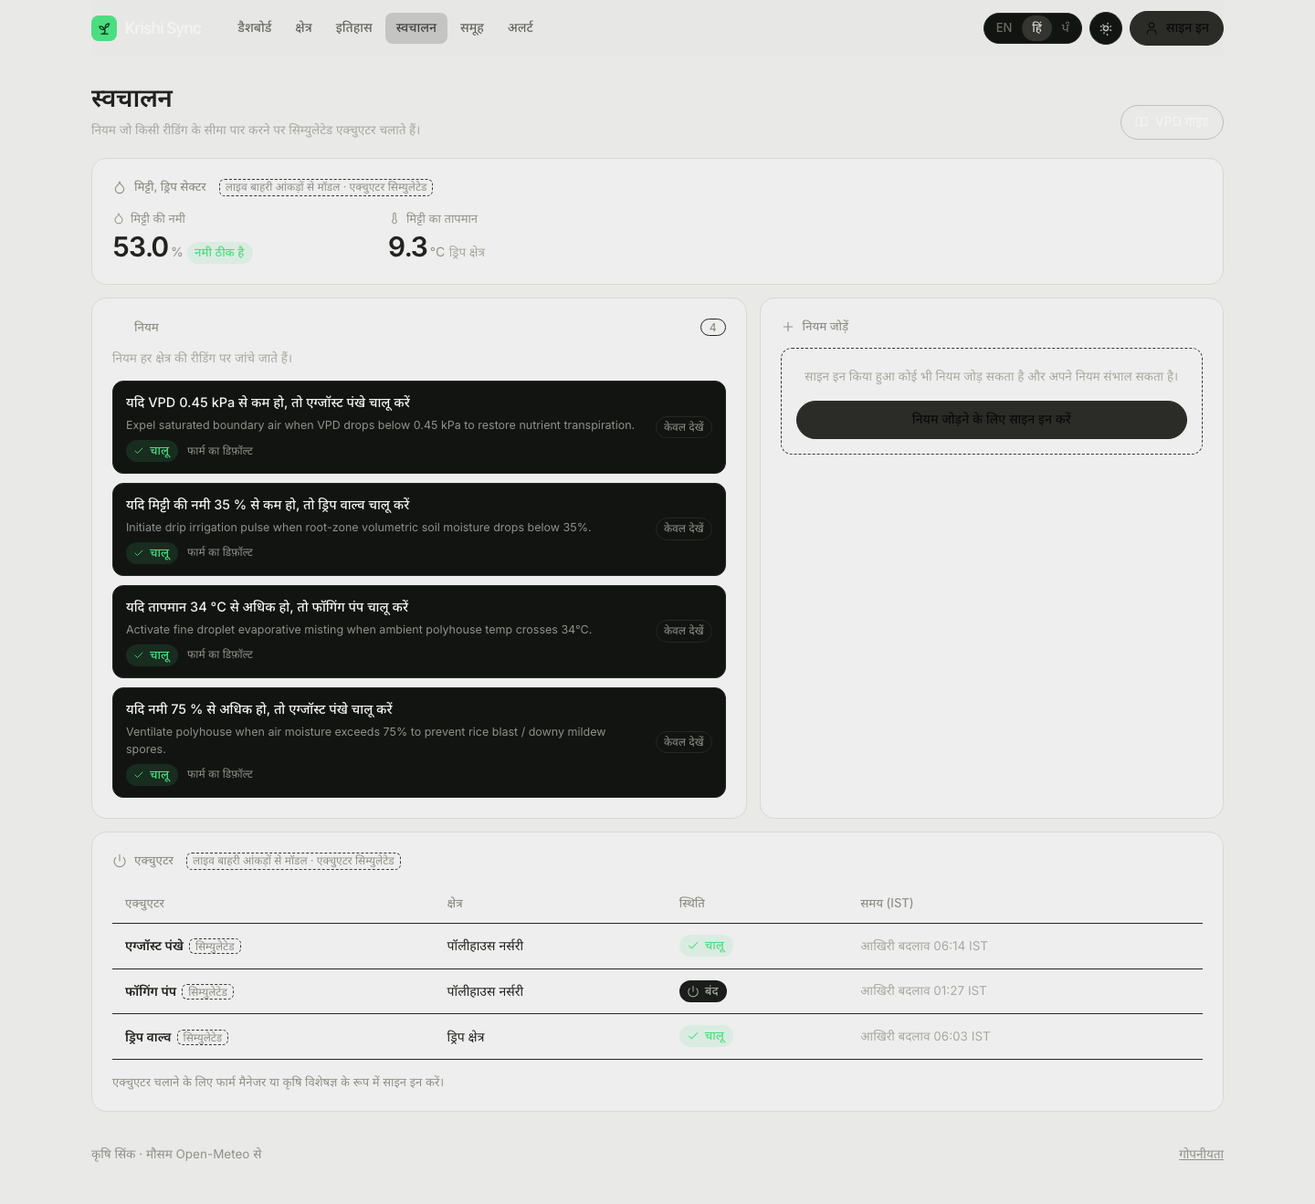
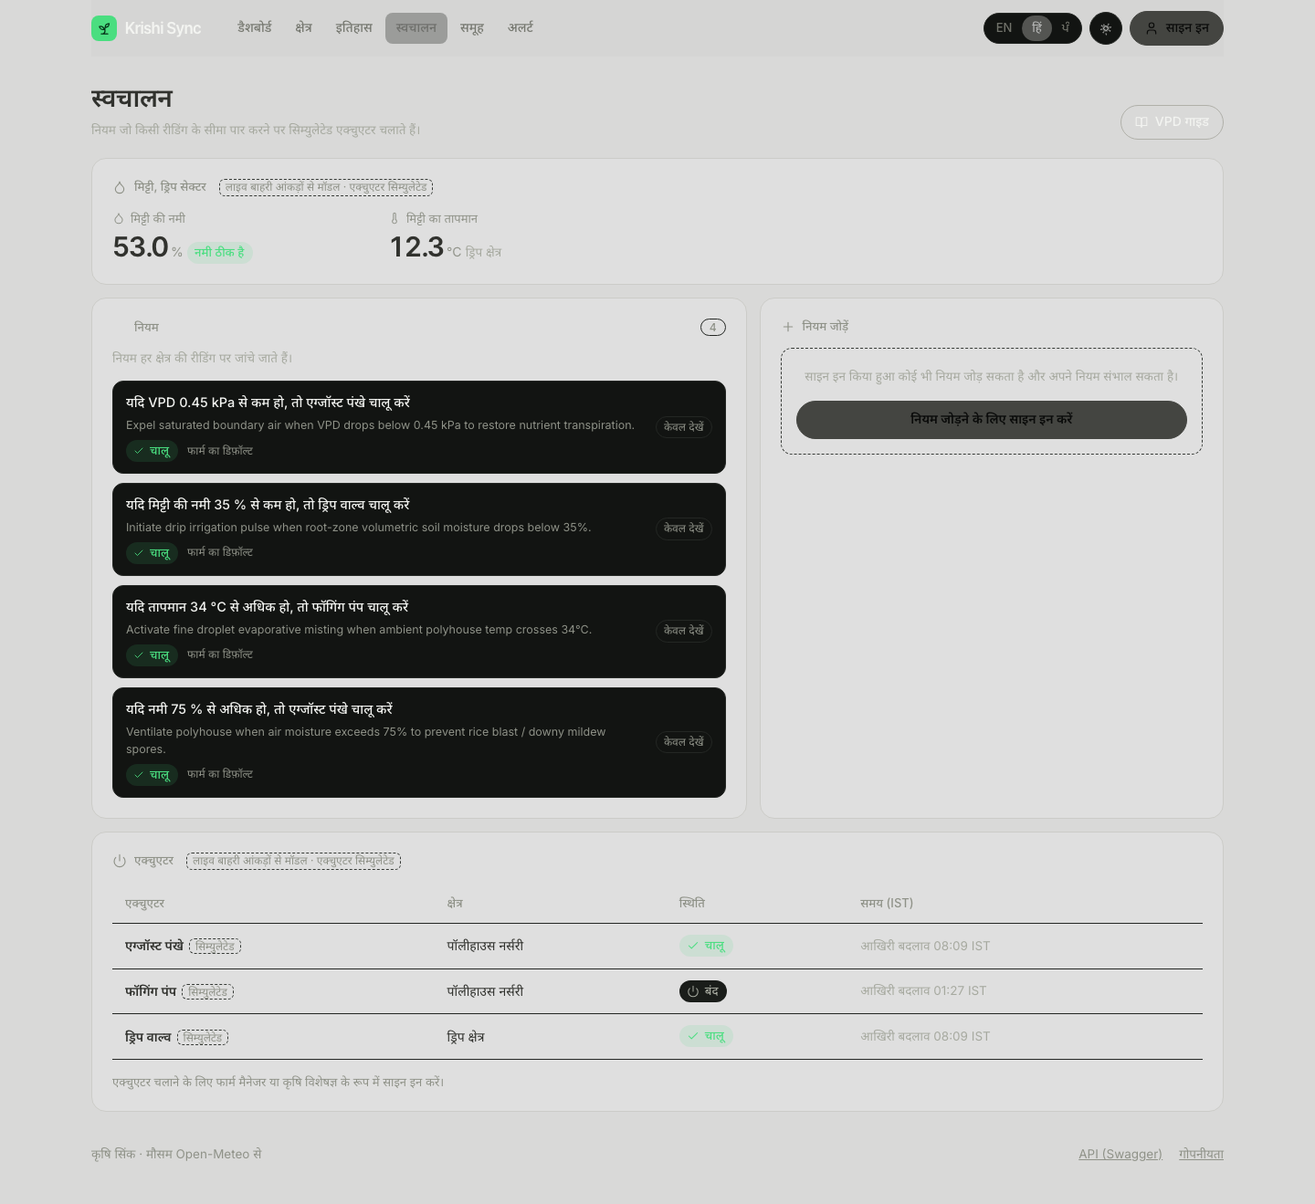
feat(auth,climate): add proper SignUp and enhanced SignIn pages, fix location switching with cookie persistence and coordinate-specific weather

diff --git a/wwwroot/css/pages.css b/wwwroot/css/pages.css
@@ -59,19 +59,30 @@ button.zn:focus-visible { outline-offset: 4px; }
 .farmsel select { height: 40px; border: 1px solid var(--line-2); border-radius: var(--r-input); background: var(--surface); color: var(--text); font: 400 14px var(--f-b); padding: 0 10px; max-width: 100%; }
 .notice { display: flex; gap: 10px; align-items: center; margin: 14px 0 0; padding: 10px 14px; border-radius: 12px; border: 1px solid var(--watch); background: color-mix(in srgb, var(--watch) 10%, transparent); color: var(--text); font-size: 14px; }
 .notice svg { color: var(--watch); }
-/* sign-in, error, privacy */
-.auth { max-width: 400px; margin: 56px auto; }
+/* sign-in, sign-up, error, privacy */
+.auth { max-width: 440px; margin: 48px auto; padding: 32px 28px; border-radius: var(--r-card); border: 1px solid var(--line); background: var(--surface); box-shadow: var(--shadow); }
 .auth.center { text-align: center; }
-.auth form { margin-top: 22px; }
-.auth .sub { margin-bottom: 20px; }
-.btn.full { width: 100%; justify-content: center; }
+.auth form { margin-top: 18px; }
+.auth .sub { margin-bottom: 16px; font-size: 14px; color: var(--text-2); }
+.auth-tabs { display: flex; border-radius: 10px; background: var(--surface-2); padding: 4px; margin-bottom: 22px; gap: 4px; }
+.auth-tab { flex: 1; text-align: center; padding: 8px 12px; font-size: 13.5px; font-weight: 500; border-radius: 7px; color: var(--text-2); text-decoration: none; transition: all 0.15s ease; }
+.auth-tab.on { background: var(--surface); color: var(--text); box-shadow: 0 1px 3px rgba(0,0,0,0.08); font-weight: 600; }
+.demo-pills { display: flex; flex-direction: column; gap: 8px; margin: 18px 0 6px; padding: 12px; border-radius: var(--r-input); background: var(--surface-2); border: 1px dashed var(--line-2); }
+.demo-pills .dp-lbl { font-size: 11.5px; font-weight: 600; text-transform: uppercase; letter-spacing: 0.04em; color: var(--text-3); }
+.demo-pills .dp-row { display: flex; flex-wrap: wrap; gap: 6px; }
+.demo-pills button { flex: 1; min-width: 140px; font-size: 12px; height: 32px; padding: 0 8px; justify-content: center; }
+.auth-footer { text-align: center; margin-top: 20px; font-size: 13.5px; color: var(--text-2); }
+.auth-footer a { color: var(--accent); font-weight: 500; text-decoration: none; }
+.auth-footer a:hover { text-decoration: underline; }
+.field select { width: 100%; height: 40px; border: 1px solid var(--line-2); border-radius: var(--r-input); background: var(--surface); color: var(--text); font: 400 14px var(--f-b); padding: 0 12px; }
+.btn.full { width: 100%; justify-content: center; height: 42px; font-weight: 600; }
 .divider { display: flex; align-items: center; gap: 12px; color: var(--text-3); font-size: 13px; margin: 20px 0 0; }
 .divider::before, .divider::after { content: ""; flex: 1; height: 1px; background: var(--line); }
 .check { display: flex; gap: 10px; align-items: center; font-size: 14px; color: var(--text-2); margin: 4px 0 18px; min-height: 40px; }
 .check input { width: 18px; height: 18px; accent-color: var(--accent); }
 .err { color: var(--crit); font-size: 13px; }
 .form-err ul { margin: 0 0 14px; padding: 0; list-style: none; }
-.demo-note { text-align: center; }
+.demo-note { text-align: center; font-size: 12px; color: var(--text-3); margin-top: 12px; }
 .prose { max-width: 680px; margin: 40px auto; }
 .prose h2 { font: 600 20px var(--f-d); letter-spacing: -0.02em; margin: 28px 0 6px; }
 .prose p { color: var(--text-2); margin: 0; }

diff --git a/wwwroot/js/site.js b/wwwroot/js/site.js
@@ -129,9 +129,22 @@
 
   // 8. Account menu dismiss
   var um = document.querySelector("details.um");
-  if (!um) return;
-  document.addEventListener("click", function (e) { if (!um.contains(e.target)) um.open = false; });
-  um.addEventListener("keydown", function (e) {
-    if (e.key === "Escape") { um.open = false; um.querySelector("summary").focus(); }
+  if (um) {
+    document.addEventListener("click", function (e) { if (!um.contains(e.target)) um.open = false; });
+    um.addEventListener("keydown", function (e) {
+      if (e.key === "Escape") { um.open = false; um.querySelector("summary").focus(); }
+    });
+  }
+
+  // 9. Quick Demo Credentials Filler
+  document.querySelectorAll("[data-fill-email]").forEach(function (btn) {
+    btn.addEventListener("click", function () {
+      var email = btn.getAttribute("data-fill-email");
+      var pass = btn.getAttribute("data-fill-pass");
+      var emailInput = document.getElementById("Email");
+      var passInput = document.getElementById("Password");
+      if (emailInput && email) emailInput.value = email;
+      if (passInput && pass) passInput.value = pass;
+    });
   });
 })();

diff --git a/Services/Strings.Guide.cs b/Services/Strings.Guide.cs
@@ -196,5 +196,19 @@ public static partial class Strings
         dict["toast.login.welcome"] = new("Welcome back, {0}! Logged in as {1}.", "वापसी पर स्वागत है, {0}! {1} के रूप में साइन इन हैं।", "ਜੀ ਆਇਆਂ ਨੂੰ, {0}! {1} ਵਜੋਂ ਸਾਈਨ ਇਨ ਹੋ।");
         dict["toast.logout"] = new("You have been logged out safely.", "आप सुरक्षित रूप से साइन आउट हो चुके हैं।", "ਤੁਸੀਂ ਸੁਰੱਖਿਅਤ ਢੰਗ ਨਾਲ ਸਾਈਨ ਆਊਟ ਹੋ ਗਏ ਹੋ।");
         dict["au.t.anomaly"] = new("Microclimate anomaly simulated! High humidity (89%) logged: rules evaluated & actuators engaged.", "माइक्रॉक्लाइमेट असामान्यता का अनुकरण! उच्च नमी (89%) दर्ज: नियम निष्पादित और एक्चुएटर चालू हुए।", "ਮਾਈਕ੍ਰੋਕਲਾਈਮੇਟ ਅਸਧਾਰਨਤਾ ਦੀ ਨਕਲ! ਉੱਚ ਨਮੀ (89%) ਦਰਜ: ਨਿਯਮ ਲਾਗੂ ਅਤੇ ਐਕਚੂਏਟਰ ਚਾਲੂ ਹੋਏ।");
+        dict["login.tab.signin"] = new("Sign In", "साइन इन", "ਸਾਈਨ ਇਨ");
+        dict["login.tab.signup"] = new("Create Account", "खाता बनाएं", "ਖਾਤਾ ਬਣਾਓ");
+        dict["login.no_account"] = new("Don't have an account? Create one", "खाता नहीं है? नया बनाएं", "ਖਾਤਾ ਨਹੀਂ ਹੈ? ਨਵਾਂ ਬਣਾਓ");
+        dict["register.title"] = new("Create Your Account", "नया खाता बनाएं", "ਨਵਾਂ ਖਾਤਾ ਬਣਾਓ");
+        dict["register.sub"] = new("Join Krishi Sync to monitor farm microclimates and configure automation.", "कृषि सिंक से जुड़कर माइक्रॉक्लाइमेट की निगरानी और ऑटोमेशन सेट करें।", "ਕ੍ਰਿਸ਼ੀ ਸਿੰਕ ਨਾਲ ਜੁੜ ਕੇ ਖੇਤ ਦੇ ਮੌਸਮ ਦੀ ਨਿਗਰਾਨੀ ਅਤੇ ਆਟੋਮੇਸ਼ਨ ਸੈੱਟ ਕਰੋ।");
+        dict["register.name"] = new("Full Name", "पूरा नाम", "ਪੂਰਾ ਨਾਮ");
+        dict["register.role"] = new("Role / Position", "भूमिका / पद", "ਭੂਮਿਕਾ / ਅਹੁਦਾ");
+        dict["register.cluster"] = new("Primary Farm Cluster", "प्राथमिक कृषि क्लस्टर", "ਮੁੱਖ ਖੇਤੀ ਕਲੱਸਟਰ");
+        dict["register.confirm_pass"] = new("Confirm Password", "पासवर्ड की पुष्टि करें", "ਪਾਸਵਰਡ ਦੀ ਪੁਸ਼ਟੀ ਕਰੋ");
+        dict["register.terms"] = new("I agree to farm operations & microclimate monitoring protocols", "मैं कृषि संचालन और माइक्रॉक्लाइमेट निगरानी प्रोटोकॉल से सहमत हूं", "ਮੈਂ ਖੇਤੀ ਸੰਚਾਲਨ ਅਤੇ ਮਾਈਕ੍ਰੋਕਲਾਈਮੇਟ ਨਿਗਰਾਨੀ ਨਿਯਮਾਂ ਨਾਲ ਸਹਿਮਤ ਹਾਂ");
+        dict["register.submit"] = new("Create Account", "खाता बनाएं", "ਖਾਤਾ ਬਣਾਓ");
+        dict["register.have_account"] = new("Already have an account? Sign In", "पहले से खाता है? साइन इन करें", "ਪਹਿਲਾਂ ਤੋਂ ਖਾਤਾ ਹੈ? ਸਾਈਨ ਇਨ ਕਰੋ");
+        dict["auth.email_exists"] = new("An account with this email address already exists.", "इस ईमेल के साथ पहले से खाता मौजूद है।", "ਇਸ ਈਮੇਲ ਨਾਲ ਪਹਿਲਾਂ ਹੀ ਖਾਤਾ ਮੌਜੂਦ ਹੈ।");
+        dict["toast.register.welcome"] = new("Welcome to Krishi Sync, {0}! Your account has been registered.", "कृषि सिंक में आपका स्वागत है, {0}! आपका खाता सफलतापूर्वक बन गया है।", "ਕ੍ਰਿਸ਼ੀ ਸਿੰਕ ਵਿੱਚ ਤੁਹਾਡਾ ਸੁਆਗਤ ਹੈ, {0}! ਤੁਹਾਡਾ ਖਾਤਾ ਸਫਲਤਾਪੂਰਵਕ ਬਣ ਗਿਆ ਹੈ।");
     }
 }

diff --git a/Controllers/AccountController.cs b/Controllers/AccountController.cs
@@ -98,6 +98,74 @@ public partial class AccountController : Controller
         return RedirectToAction("Dashboard", "Climate");
     }
 
+    [HttpGet("Register")]
+    [HttpGet("SignUp")]
+    public async Task<IActionResult> Register(string? returnUrl)
+    {
+        if (User.Identity?.IsAuthenticated == true)
+        {
+            return RedirectToAction("Dashboard", "Climate");
+        }
+
+        ViewBag.Clusters = await _context.FarmClusters.AsNoTracking().Select(c => c.Name).ToListAsync();
+        ViewData["ReturnUrl"] = returnUrl;
+        return View(new RegisterViewModel { ReturnUrl = returnUrl });
+    }
+
+    [HttpPost("Register")]
+    [HttpPost("SignUp")]
+    [ValidateAntiForgeryToken]
+    [EnableRateLimiting("auth")]
+    public async Task<IActionResult> Register(RegisterViewModel model, string? returnUrl)
+    {
+        ViewData["ReturnUrl"] = returnUrl;
+
+        if (!ModelState.IsValid)
+        {
+            ViewBag.Clusters = await _context.FarmClusters.AsNoTracking().Select(c => c.Name).ToListAsync();
+            return View(model);
+        }
+
+        var normalizedEmail = model.Email.Trim().ToLowerInvariant();
+        if (await _context.Users.AnyAsync(u => u.Email.ToLower() == normalizedEmail))
+        {
+            ModelState.AddModelError(nameof(model.Email), Localizer.T(HttpContext.Lang(), "auth.email_exists"));
+            ViewBag.Clusters = await _context.FarmClusters.AsNoTracking().Select(c => c.Name).ToListAsync();
+            return View(model);
+        }
+
+        var user = new User
+        {
+            FullName = model.FullName.Trim(),
+            Email = normalizedEmail,
+            Role = string.IsNullOrWhiteSpace(model.Role) ? "Agronomist" : model.Role.Trim(),
+            AffiliatedFarmCluster = model.AffiliatedFarmCluster,
+            CreatedAt = IstClock.Now
+        };
+        user.PasswordHash = _passwordHasher.HashPassword(user, model.Password);
+
+        _context.Users.Add(user);
+        await _context.SaveChangesAsync();
+
+        var authProperties = new AuthenticationProperties
+        {
+            IsPersistent = true,
+            ExpiresUtc = DateTimeOffset.UtcNow.AddDays(14)
+        };
+
+        await HttpContext.SignInAsync(CookieAuthenticationDefaults.AuthenticationScheme, UserProvisioning.BuildPrincipal(user), authProperties);
+
+        _logger.LogInformation("New user registered successfully: {UserId} ({Email})", user.UserId, user.Email);
+        TempData["SuccessMessage"] = string.Format(Localizer.T(HttpContext.Lang(), "toast.register.welcome"), user.FullName);
+
+        if (!string.IsNullOrEmpty(returnUrl) && Url.IsLocalUrl(returnUrl))
+        {
+            return Redirect(returnUrl);
+        }
+
+        return RedirectToAction("Dashboard", "Climate");
+    }
+
     /// <summary>Clears the app cookie; when Clerk is on, the callback page then ends the Clerk session too.</summary>
     [HttpPost("Logout")]
     [ValidateAntiForgeryToken]

diff --git a/Services/DashboardViewModelBuilder.cs b/Services/DashboardViewModelBuilder.cs
@@ -24,26 +24,47 @@ public class DashboardViewModelBuilder
         : name.Contains("Open", StringComparison.OrdinalIgnoreCase) ? "open"
         : name.Contains("Drip", StringComparison.OrdinalIgnoreCase) ? "drip" : "";
 
-    public async Task<DashboardViewModel> BuildAsync(string lang, string? farm = null)
+    public async Task<DashboardViewModel> BuildAsync(string lang, string? farm = null, Microsoft.AspNetCore.Http.HttpContext? httpContext = null)
     {
         var nowIst = IstClock.Now;
         var zones = await _context.Zones.Include(z => z.Actuators).AsNoTracking().OrderBy(z => z.ZoneId).ToListAsync();
         var clusters = await _context.FarmClusters.AsNoTracking().OrderBy(c => c.ClusterId).ToListAsync();
         var farms = clusters.Select(c => c.Name).ToList();
         if (farms.Count == 0) farms.Add(DefaultFarm);
-        var selected = !string.IsNullOrEmpty(farm) && farms.Contains(farm) ? farm : farms[0];
+
+        string? cookieFarm = httpContext?.Request.Cookies["krishi_farm"];
+        var selected = !string.IsNullOrEmpty(farm) && farms.Contains(farm) ? farm
+            : (!string.IsNullOrEmpty(cookieFarm) && farms.Contains(cookieFarm) ? cookieFarm : farms[0]);
+
+        if (httpContext != null && !string.IsNullOrEmpty(selected))
+        {
+            try
+            {
+                httpContext.Response.Cookies.Append("krishi_farm", selected, new Microsoft.AspNetCore.Http.CookieOptions
+                {
+                    Expires = DateTimeOffset.UtcNow.AddDays(30),
+                    SameSite = Microsoft.AspNetCore.Http.SameSiteMode.Lax,
+                    HttpOnly = true
+                });
+            }
+            catch { /* Ignore if headers sent */ }
+        }
+
+        var selectedCluster = clusters.FirstOrDefault(c => c.Name == selected);
+        string place = !string.IsNullOrWhiteSpace(selectedCluster?.Region) ? selectedCluster.Region
+            : (selected.Contains(" - ") ? selected[(selected.LastIndexOf(" - ", StringComparison.Ordinal) + 3)..] : selected);
 
         var vm = new DashboardViewModel
         {
             CurrentLanguage = lang,
             SelectedFarm = selected,
-            SelectedRegion = clusters.FirstOrDefault(c => c.Name == selected)?.Region ?? string.Empty,
-            Place = selected.Contains(" - ") ? selected[(selected.LastIndexOf(" - ", StringComparison.Ordinal) + 3)..] : selected,
+            SelectedRegion = selectedCluster?.Region ?? string.Empty,
+            Place = place,
             AvailableFarms = farms,
             ActiveAlertsCount = await _context.ClimateAlerts.CountAsync(a => !a.IsAcknowledged)
         };
 
-        var ambient = await _weather.GetAmbientAsync();
+        var ambient = await _weather.GetAmbientAsync(selectedCluster?.Latitude, selectedCluster?.Longitude);
         if (ambient != null)
         {
             vm.AmbientTemp = ambient.Temp;

diff --git a/Services/OpenMeteoService.cs b/Services/OpenMeteoService.cs
@@ -64,9 +64,11 @@ public partial class OpenMeteoService : IOpenMeteoService
     /// Ambient reading for the dashboard: live Open-Meteo when reachable, else the newest stored
     /// Open Field log flagged as stale. Null only when neither exists. Never throws.
     /// </summary>
-    public async Task<AmbientReading?> GetAmbientAsync()
+    public async Task<AmbientReading?> GetAmbientAsync(double? latitude = null, double? longitude = null)
     {
-        var live = (await FetchLiveWeatherAsync())?.Current;
+        double lat = latitude ?? 28.6139;
+        double lon = longitude ?? 77.2090;
+        var live = (await FetchLiveWeatherAsync(lat, lon))?.Current;
         if (live != null)
             return new AmbientReading(live.Temperature2m, live.RelativeHumidity2m, live.WindSpeed10m,
                 live.SurfacePressure, IstClock.Now, false);
@@ -114,12 +116,14 @@ public partial class OpenMeteoService : IOpenMeteoService
     /// Ingests live telemetry, applies C# microclimate offsets for 3 farm zones,
     /// logs readings to database, and triggers automation rules.
     /// </summary>
-    public async Task<List<SensorLog>> IngestAndSyncTelemetryAsync()
+    public async Task<List<SensorLog>> IngestAndSyncTelemetryAsync(double? latitude = null, double? longitude = null)
     {
         using var scope = _serviceProvider.CreateScope();
         var context = scope.ServiceProvider.GetRequiredService<AgriSyncDbContext>();
 
-        var weatherData = await FetchLiveWeatherAsync();
+        double lat = latitude ?? 28.6139;
+        double lon = longitude ?? 77.2090;
+        var weatherData = await FetchLiveWeatherAsync(lat, lon);
         var current = weatherData?.Current;
         if (current == null)
             return new List<SensorLog>(); // no live data: append nothing rather than invent readings

diff --git a/ViewModels/AuthViewModels.cs b/ViewModels/AuthViewModels.cs
@@ -19,3 +19,43 @@ public class LoginViewModel
 
     public string? ReturnUrl { get; set; }
 }
+
+public class RegisterViewModel
+{
+    [Required(ErrorMessage = "Full Name is required.")]
+    [StringLength(100, ErrorMessage = "Name cannot exceed 100 characters.")]
+    [Display(Name = "Full Name")]
+    public string FullName { get; set; } = string.Empty;
+
+    [Required(ErrorMessage = "Official email address is required.")]
+    [EmailAddress(ErrorMessage = "Invalid email format.")]
+    [StringLength(100)]
+    [Display(Name = "Email Address")]
+    public string Email { get; set; } = string.Empty;
+
+    [Required(ErrorMessage = "Please select your primary role.")]
+    [StringLength(50)]
+    [Display(Name = "Role / Designation")]
+    public string Role { get; set; } = "Agronomist";
+
+    [StringLength(150)]
+    [Display(Name = "Primary Farm Cluster")]
+    public string? AffiliatedFarmCluster { get; set; }
+
+    [Required(ErrorMessage = "Password is required.")]
+    [StringLength(100, MinimumLength = 6, ErrorMessage = "Password must be at least 6 characters.")]
+    [DataType(DataType.Password)]
+    [Display(Name = "Password")]
+    public string Password { get; set; } = string.Empty;
+
+    [Required(ErrorMessage = "Please confirm your password.")]
+    [DataType(DataType.Password)]
+    [Compare("Password", ErrorMessage = "Passwords do not match.")]
+    [Display(Name = "Confirm Password")]
+    public string ConfirmPassword { get; set; } = string.Empty;
+
+    [Display(Name = "I accept the operational protocol")]
+    public bool AcceptTerms { get; set; } = true;
+
+    public string? ReturnUrl { get; set; }
+}

diff --git a/tests/AgriSyncIndia.Tests/AuthorizationTests.cs b/tests/AgriSyncIndia.Tests/AuthorizationTests.cs
@@ -9,7 +9,7 @@ namespace AgriSyncIndia.Tests;
 
 public class AuthorizationTests
 {
-    static readonly string[] AnonymousPosts = { "AccountController.Login", "AccountController.ClerkSession", "AccountController.Logout" };
+    static readonly string[] AnonymousPosts = { "AccountController.Login", "AccountController.ClerkSession", "AccountController.Logout", "AccountController.Register" };
 
     static IEnumerable<MethodInfo> Actions() =>
         typeof(HomeController).Assembly.GetTypes()
@@ -43,6 +43,19 @@ public class AuthorizationTests
     }
 
     [Fact]
-    public void Register_action_is_gone() =>
-        Assert.Null(typeof(AccountController).GetMethod("Register"));
+    public void Register_action_requires_antiforgery()
+    {
+        var m = typeof(AccountController).GetMethod("Register", new[] { typeof(AgriSyncIndia.ViewModels.RegisterViewModel), typeof(string) })!;
+        Assert.NotNull(m.GetCustomAttribute<ValidateAntiForgeryTokenAttribute>());
+        Assert.True(m.GetCustomAttributes<HttpPostAttribute>().Any());
+    }
+
+    [Fact]
+    public void Register_get_has_signup_alias()
+    {
+        var m = typeof(AccountController).GetMethod("Register", new[] { typeof(string) })!;
+        var routes = m.GetCustomAttributes<HttpGetAttribute>().Select(a => a.Template).ToList();
+        Assert.Contains("Register", routes);
+        Assert.Contains("SignUp", routes);
+    }
 }

diff --git a/Controllers/ClimateController.cs b/Controllers/ClimateController.cs
@@ -28,7 +28,7 @@ public partial class ClimateController : Controller
     [HttpGet]
     [HttpGet("Dashboard")]
     public async Task<IActionResult> Dashboard([FromServices] DashboardViewModelBuilder builder, string? farm)
-        => View(await builder.BuildAsync(HttpContext.Lang(), farm));
+        => View(await builder.BuildAsync(HttpContext.Lang(), farm, HttpContext));
 
     /// <summary>
     /// Actuator manual toggle action.
@@ -54,11 +54,13 @@ public partial class ClimateController : Controller
     [HttpPost("RefreshTelemetry")]
     [Authorize]
     [ValidateAntiForgeryToken]
-    public async Task<IActionResult> RefreshTelemetry(string? returnUrl)
+    public async Task<IActionResult> RefreshTelemetry(string? returnUrl, string? farm)
     {
         try
         {
-            var logs = await _weatherService.IngestAndSyncTelemetryAsync();
+            var targetFarm = farm ?? Request.Cookies["krishi_farm"];
+            var cluster = await _context.FarmClusters.AsNoTracking().FirstOrDefaultAsync(c => c.Name == targetFarm);
+            var logs = await _weatherService.IngestAndSyncTelemetryAsync(cluster?.Latitude, cluster?.Longitude);
             if (logs.Count > 0)
                 TempData["SuccessMessage"] = string.Format(Localizer.T(HttpContext.Lang(), "toast.weather.refreshed"), logs.Count);
             else

diff --git a/tests/AgriSyncIndia.Tests/OwnershipTests.cs b/tests/AgriSyncIndia.Tests/OwnershipTests.cs
@@ -39,9 +39,9 @@ public class OwnershipTests : IDisposable
     {
         public int Toggled;
         public Task ToggleActuatorAsync(int id) { Toggled++; return Task.CompletedTask; }
-        public Task<List<SensorLog>> IngestAndSyncTelemetryAsync() => Task.FromResult(new List<SensorLog>());
+        public Task<List<SensorLog>> IngestAndSyncTelemetryAsync(double? latitude = null, double? longitude = null) => Task.FromResult(new List<SensorLog>());
         public Task<OpenMeteoResponse?> FetchLiveWeatherAsync(double latitude = 28.6139, double longitude = 77.2090) => Task.FromResult<OpenMeteoResponse?>(null);
-        public Task<AmbientReading?> GetAmbientAsync() => Task.FromResult<AmbientReading?>(null);
+        public Task<AmbientReading?> GetAmbientAsync(double? latitude = null, double? longitude = null) => Task.FromResult<AmbientReading?>(null);
         public double CalculateVPD(double t, double rh) => 0;
         public (string BadgeText, string BadgeCssClass, string Description) GetVpdStatus(double v) => ("", "", "");
         public Task EvaluateAutomationRulesAsync(List<SensorLog> l) => Task.CompletedTask;

diff --git a/Services/IOpenMeteoService.cs b/Services/IOpenMeteoService.cs
@@ -6,13 +6,13 @@ public interface IOpenMeteoService
 {
     Task<OpenMeteoResponse?> FetchLiveWeatherAsync(double latitude = 28.6139, double longitude = 77.2090);
     
-    Task<AmbientReading?> GetAmbientAsync();
+    Task<AmbientReading?> GetAmbientAsync(double? latitude = null, double? longitude = null);
 
     double CalculateVPD(double temperatureC, double relativeHumidityPercent);
     
     (string BadgeText, string BadgeCssClass, string Description) GetVpdStatus(double vpdKpa);
     
-    Task<List<SensorLog>> IngestAndSyncTelemetryAsync();
+    Task<List<SensorLog>> IngestAndSyncTelemetryAsync(double? latitude = null, double? longitude = null);
     
     Task EvaluateAutomationRulesAsync(List<SensorLog> latestLogs);
 

diff --git a/Controllers/HomeController.cs b/Controllers/HomeController.cs
@@ -8,7 +8,7 @@ namespace AgriSyncIndia.Controllers;
 public class HomeController : Controller
 {
     public async Task<IActionResult> Index([FromServices] DashboardViewModelBuilder builder)
-        => View(await builder.BuildAsync(HttpContext.Lang()));
+        => View(await builder.BuildAsync(HttpContext.Lang(), null, HttpContext));
 
     public IActionResult Privacy() => View();
 
